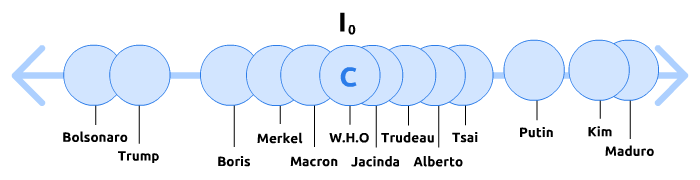
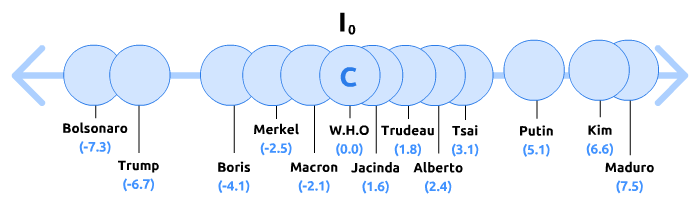
Fix Efficiency network. Still needs to be animated

diff --git a/EfficiencyCommunities/index.js b/EfficiencyCommunities/index.js
@@ -45,64 +45,51 @@ var edgeColor = {
 
 // Nodes in the network:
 var nodes = new vis.DataSet([
-	{id: 1, label: 'W.H.O.', informed: true},
-	{id: 4, label: 'Justin Trudeau'},
-	{id: 8, label: "Alberto Fernández"},
-	{id: 9, label: "Putin"},
-	{id: 5, label: 'Maduro'},
-	{id: 13, label: "Kim Jong-un"},
-	{id: 3, label: 'Trump'},
-	{id: 2, label: 'Bolsonaro'},
-	{id: 11, label: "Boris Johnson"},
-	{id: 7, label: "Macron"},
-	{id: 6, label: "Angela Merkel"},
-	{id: 10, label: "Jacinda Ardern"},
-	{id: 12, label: "Tsai Ing-wen"},
+	{id: 1, label: 'W.H.O.', center: 0, informed: true},
+	{id: 4, label: 'Justin Trudeau', center: 1.8},
+	{id: 8, label: "Alberto Fernández", center: 2.4},
+	{id: 9, label: "Putin", center: 5.1},
+	{id: 5, label: 'Maduro', center: 7.5},
+	{id: 13, label: "Kim Jong-un", center: 6.6},
+	{id: 3, label: 'Trump', center: -6.7},
+	{id: 2, label: 'Bolsonaro', center: -7.3},
+	{id: 11, label: "Boris Johnson", center: -4.1},
+	{id: 7, label: "Macron", center: -2.1},
+	{id: 6, label: "Angela Merkel", center: -2.5},
+	{id: 12, label: "Tsai Ing-wen", center: 3.1},
+	{id: 10, label: "Jacinda Ardern", center: 1.6},
 ]);
 
 
 // Edges in the network:
-var edges = new vis.DataSet([
-	{from: 1, to: 2, value: 1},
-	{from: 1, to: 3, value: 2},
-	{from: 1, to: 4, value: 12},
-	{from: 1, to: 5, value: 1},
-	{from: 1, to: 6, value: 8},
-	{from: 1, to: 7, value: 7},
-	{from: 1, to: 8, value: 8},
-	{from: 1, to: 9, value: 4},
-	{from: 1, to: 10, value: 12},
-	{from: 1, to: 11, value: 4},
-	{from: 1, to: 12, value: 11},
-	{from: 2, to: 3, value: 8},
-	{from: 2, to: 11, value: 6},
-	{from: 3, to: 4, value: 1},
-	{from: 3, to: 7, value: 3},
-	{from: 3, to: 13, value: 1},
-	{from: 4, to: 8, value: 3},
-	{from: 4, to: 10, value: 5},
-	{from: 5, to: 13, value: 4},
-	{from: 6, to: 7, value: 7},
-	{from: 6, to: 10, value: 4},
-	{from: 6, to: 11, value: 3},
-	{from: 7, to: 11, value: 3},
-	{from: 10, to: 12, value: 6},
-]);
+var edges = new vis.DataSet([]);
 
 
 // Startup function:
 function createNetwork(){
-	// Adds arrow information to edges:
-	edges.forEach(function(item){
-		// Custom color for edge:
-		item.color = edgeColor;
-		edges.update(item);
-	});
 	// Processes nodes:
-	nodes.forEach(function(item){
+	nodes.forEach(function(item1){
 		// Custom color for node:
-		item.color = nodeColor;
-		nodes.update(item);
+		item1.color = nodeColor;
+		// Edge creation:
+		nodes.forEach(function(item2){
+			// Only creates edge if pair hasn't been examined yet:
+			if (item2.id > item1.id){
+				// Calculates function of edge value:
+				let distance = Math.abs(item1.center - item2.center);
+				let probability = Math.abs(distance-15)/16;
+				let threshold = 0.7;
+				// Only creates edge if distance is over a threshold:
+				if ((probability >= threshold) || (item1.informed === true)){
+					// Creates edge:
+					let newEdge = {from: item1.id, to: item2.id, color: edgeColor, value: 0.3*Math.pow(100/distance, 1/20)};
+					// Commits new edge:
+					edges.add(newEdge);
+				}
+			}
+		});
+		// Commits changes to node:
+		nodes.update(item1);
 	});
 
 	// Creates network:
@@ -155,7 +142,7 @@ function drawCircular(){
 		network.moveNode(id, x, y);
 	})
 	// Moves the network slightly to the right:
-	network.moveTo({position: {x: -250, y:20}});
+	network.moveTo({position: {x: 0, y:20}});
 }
 
 
@@ -165,9 +152,12 @@ var seedSize = 2;
 // Function to transition to the next state of the simulation:
 function nextState(state){
 	if (state == 0){
-		$("#explanation").html('This fictional example portrays how the safety measures adopted by each president in regard to Covid-19 spread in the <b>core-periphery</b> international community.')
-		$("#explanation2").html('<b>Larger edges represent larger interactions between nodes.</b> All edges are undirected for simplification purposes, but can be thought as the sum of two directed (opposite) edges.')
-		$("#explanation3").html('The &#8477; line below exemplifies the <b>rank</b> of each member of the community. Measure I<sub>0</sub> represents the center of interest of the community.')
+		$("#explanation").html('This fictional example portrays how the ideologies of each president are aligned in the <b>core-periphery</b> international community. The <b>center of interest</b> of each node can be seen in the &#8477; line below.');
+		$("#explanation2").html('Thickness of edges are proportional to the <b>distance</b> between the centers of interest of end-nodes y and z (see line below for values):');
+		$("#explanation3").html('<div style="color:#b30202"><b>distance(y,z)</b> = | center(y) \u2013 center(z) |</div>');
+		$("#explanation4").html('Content produced by agent y will be <b>interesting</b> to agent z with probability:');
+		$("#explanation5").html('<div style="color:#b30202"><b>B(y|z)</b> = | (distance(y,z) \u2013 15) / 16 |</div>');
+		$("#explanation6").html('All periphery agents are connected to the core. However, edges between periphery agents y and z only exist if <b>B(y|z) &#8805; 0.7</b> (threshold).');
 	}
 }
 

diff --git a/EfficiencyCommunities/index.css b/EfficiencyCommunities/index.css
@@ -1,14 +1,18 @@
+body {
+	overflow:hidden;
+}
+
 
 #main-network {
 	position: absolute;
-	top: 0; right: 0; bottom: 0; left: 0;
+	top: 0; right: -37%; bottom: 0; left: 0;
 }
 
 #instructions {
 	position: absolute;
 	top: 10px;
 	left: 15px;
-	font-size: 14pt;
+	font-size: calc(0.8vw + 0.4vh);
 	font-family: Calibri;
 	user-select: none;
 	z-index: 3;
@@ -23,8 +27,8 @@
 	transform: translateY(-50%);
 	margin-left: 20px;
 	border: 1.5px solid black;
-	font-size: 18px;
-	width: 30%;
+	font-size: calc(5px + 0.6vw + 0.2vh);
+	width: 35%;
 	padding: 0.5% 1% 0.5% 1%;
 	z-index: 10;
 }
@@ -38,7 +42,7 @@
 }
 
 
-#guide-menu #explanation, #guide-menu #explanation2, #guide-menu #explanation3 {
+#explanation, #explanation2, #explanation3, #explanation4, #explanation5, #explanation6 {
 	display: block;
 	margin-top: 3%;
 	margin-bottom: 3%;
@@ -59,6 +63,6 @@
 
 #ranks {
 	position: absolute;
-	bottom: 15%;
+	bottom: 8%;
 	width: 35%;
 }

diff --git a/EfficiencyCommunities/index.html b/EfficiencyCommunities/index.html
@@ -17,10 +17,13 @@
 
 	<div id="main-network"></div>
 	<div id="guide-menu">
-		<span id="header">Covid-19 Measures in the International Community</span>
+		<span id="header">Political Alignment in the International Community</span>
 		<span id="explanation">Loading...</span>
 		<span id="explanation2">Loading...</span>
 		<span id="explanation3">Loading...</span>
+		<span id="explanation4">Loading...</span>
+		<span id="explanation5">Loading...</span>
+		<span id="explanation6">Loading...</span>
 	</div>
 	<img id="ranks" src="ranks.png"></img>
 	<script type="text/javascript" src="index.js"></script>
